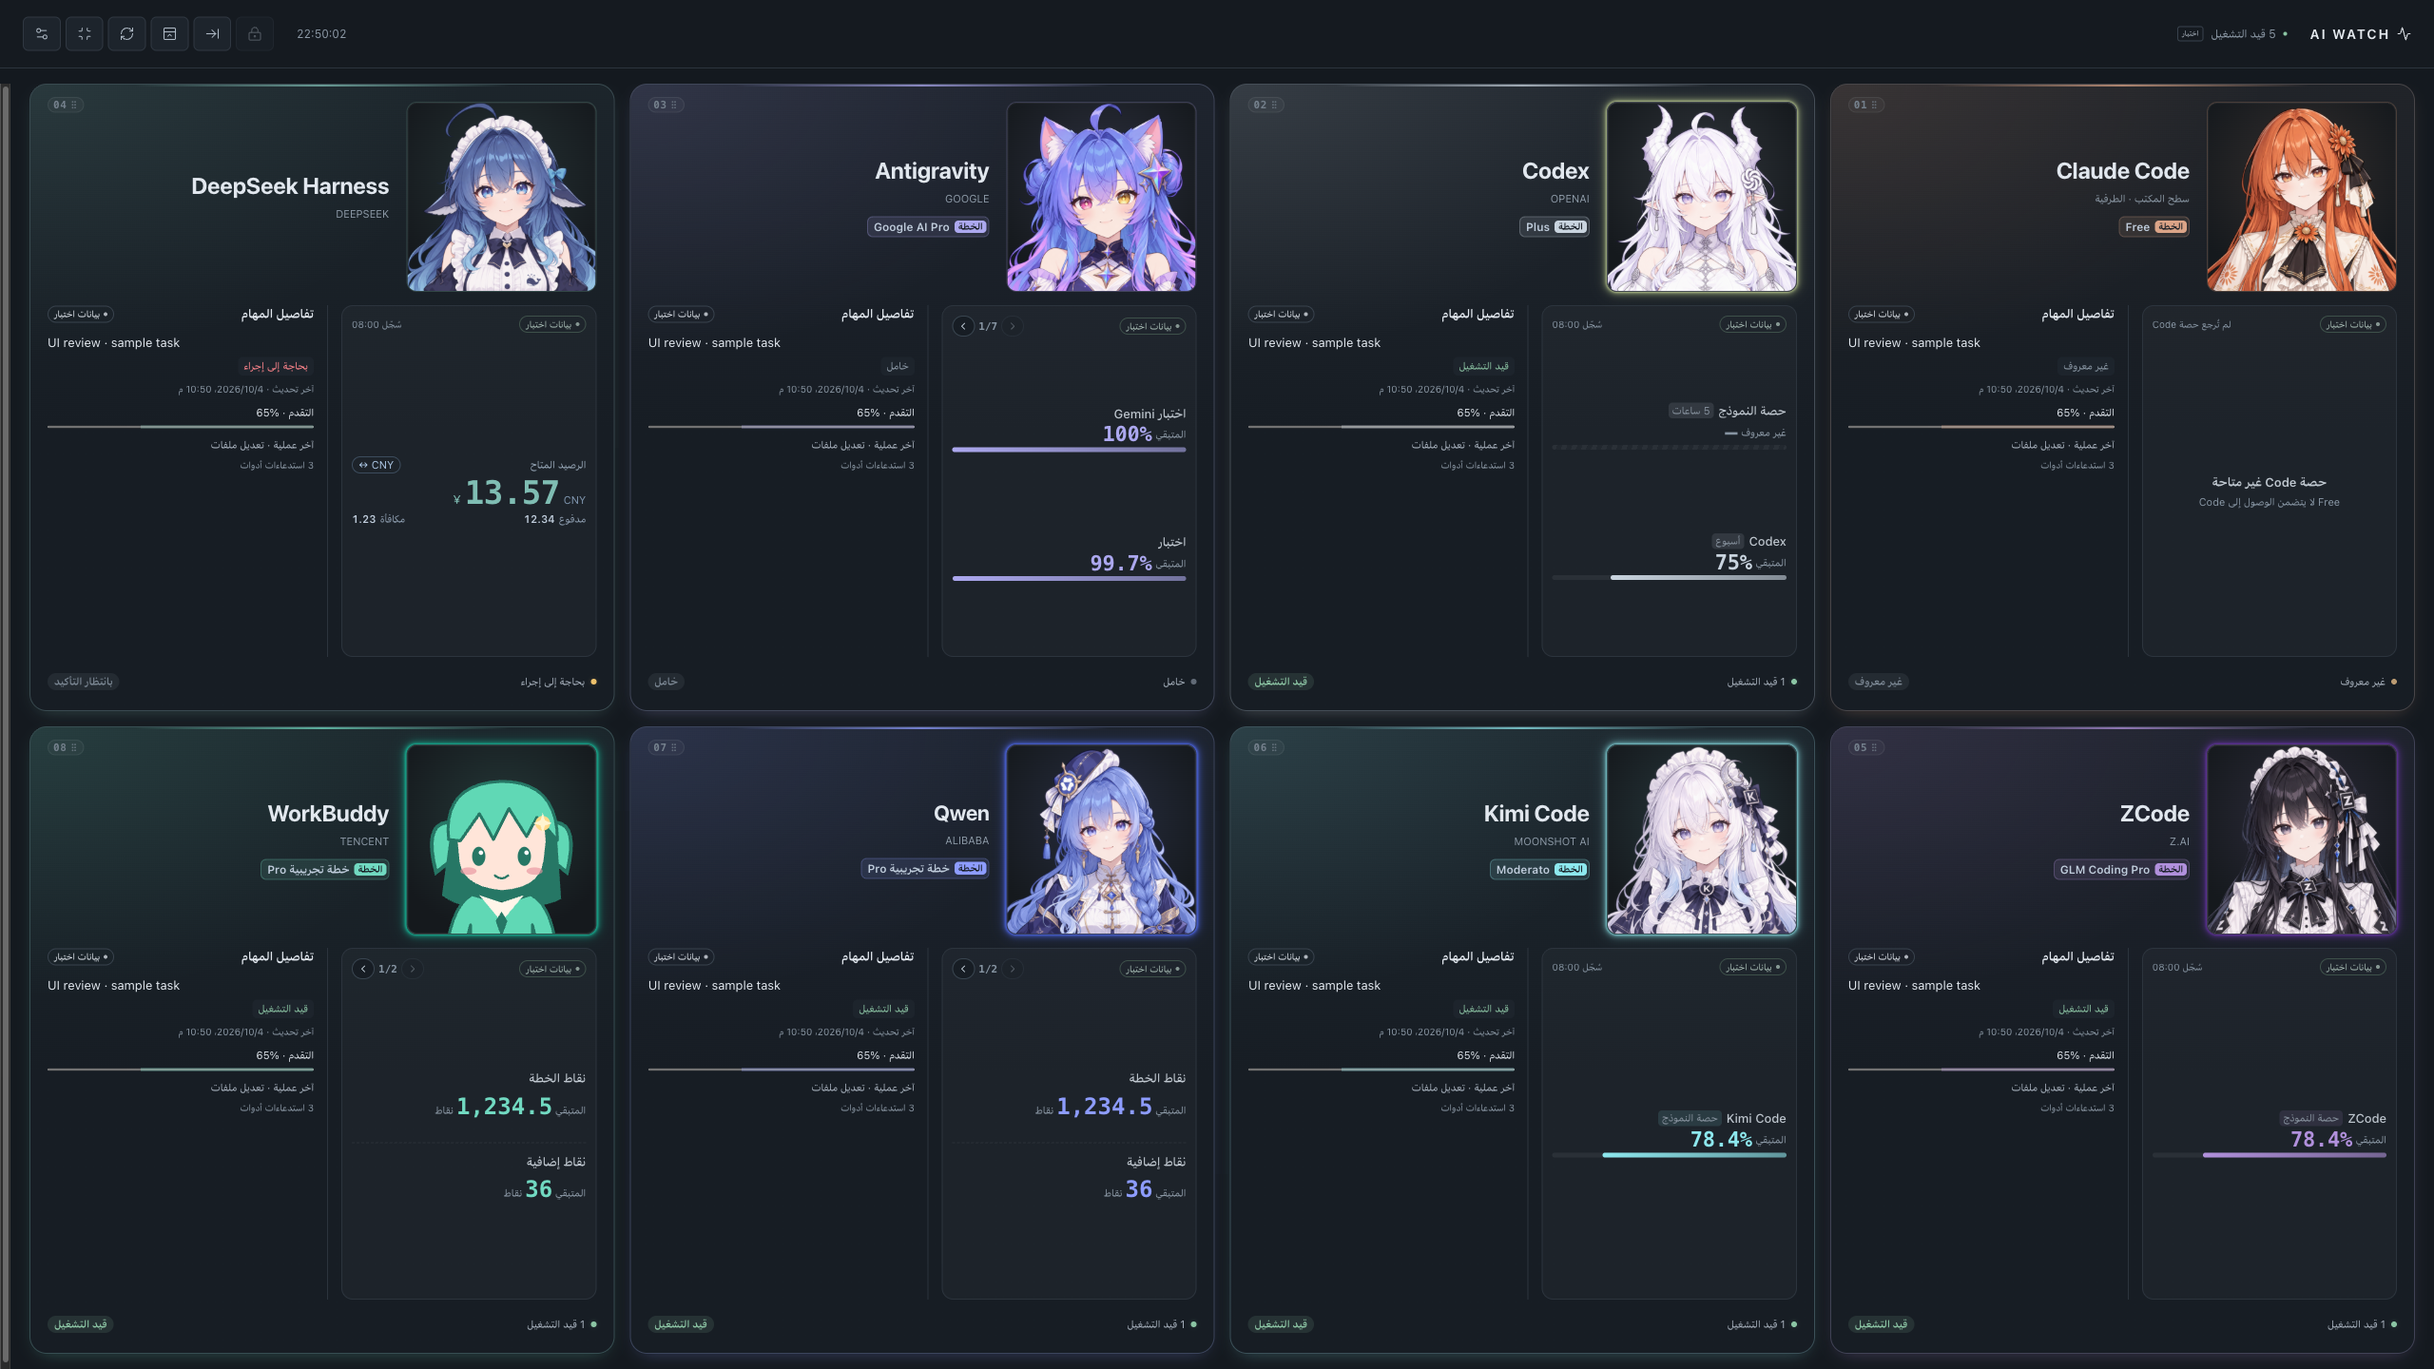
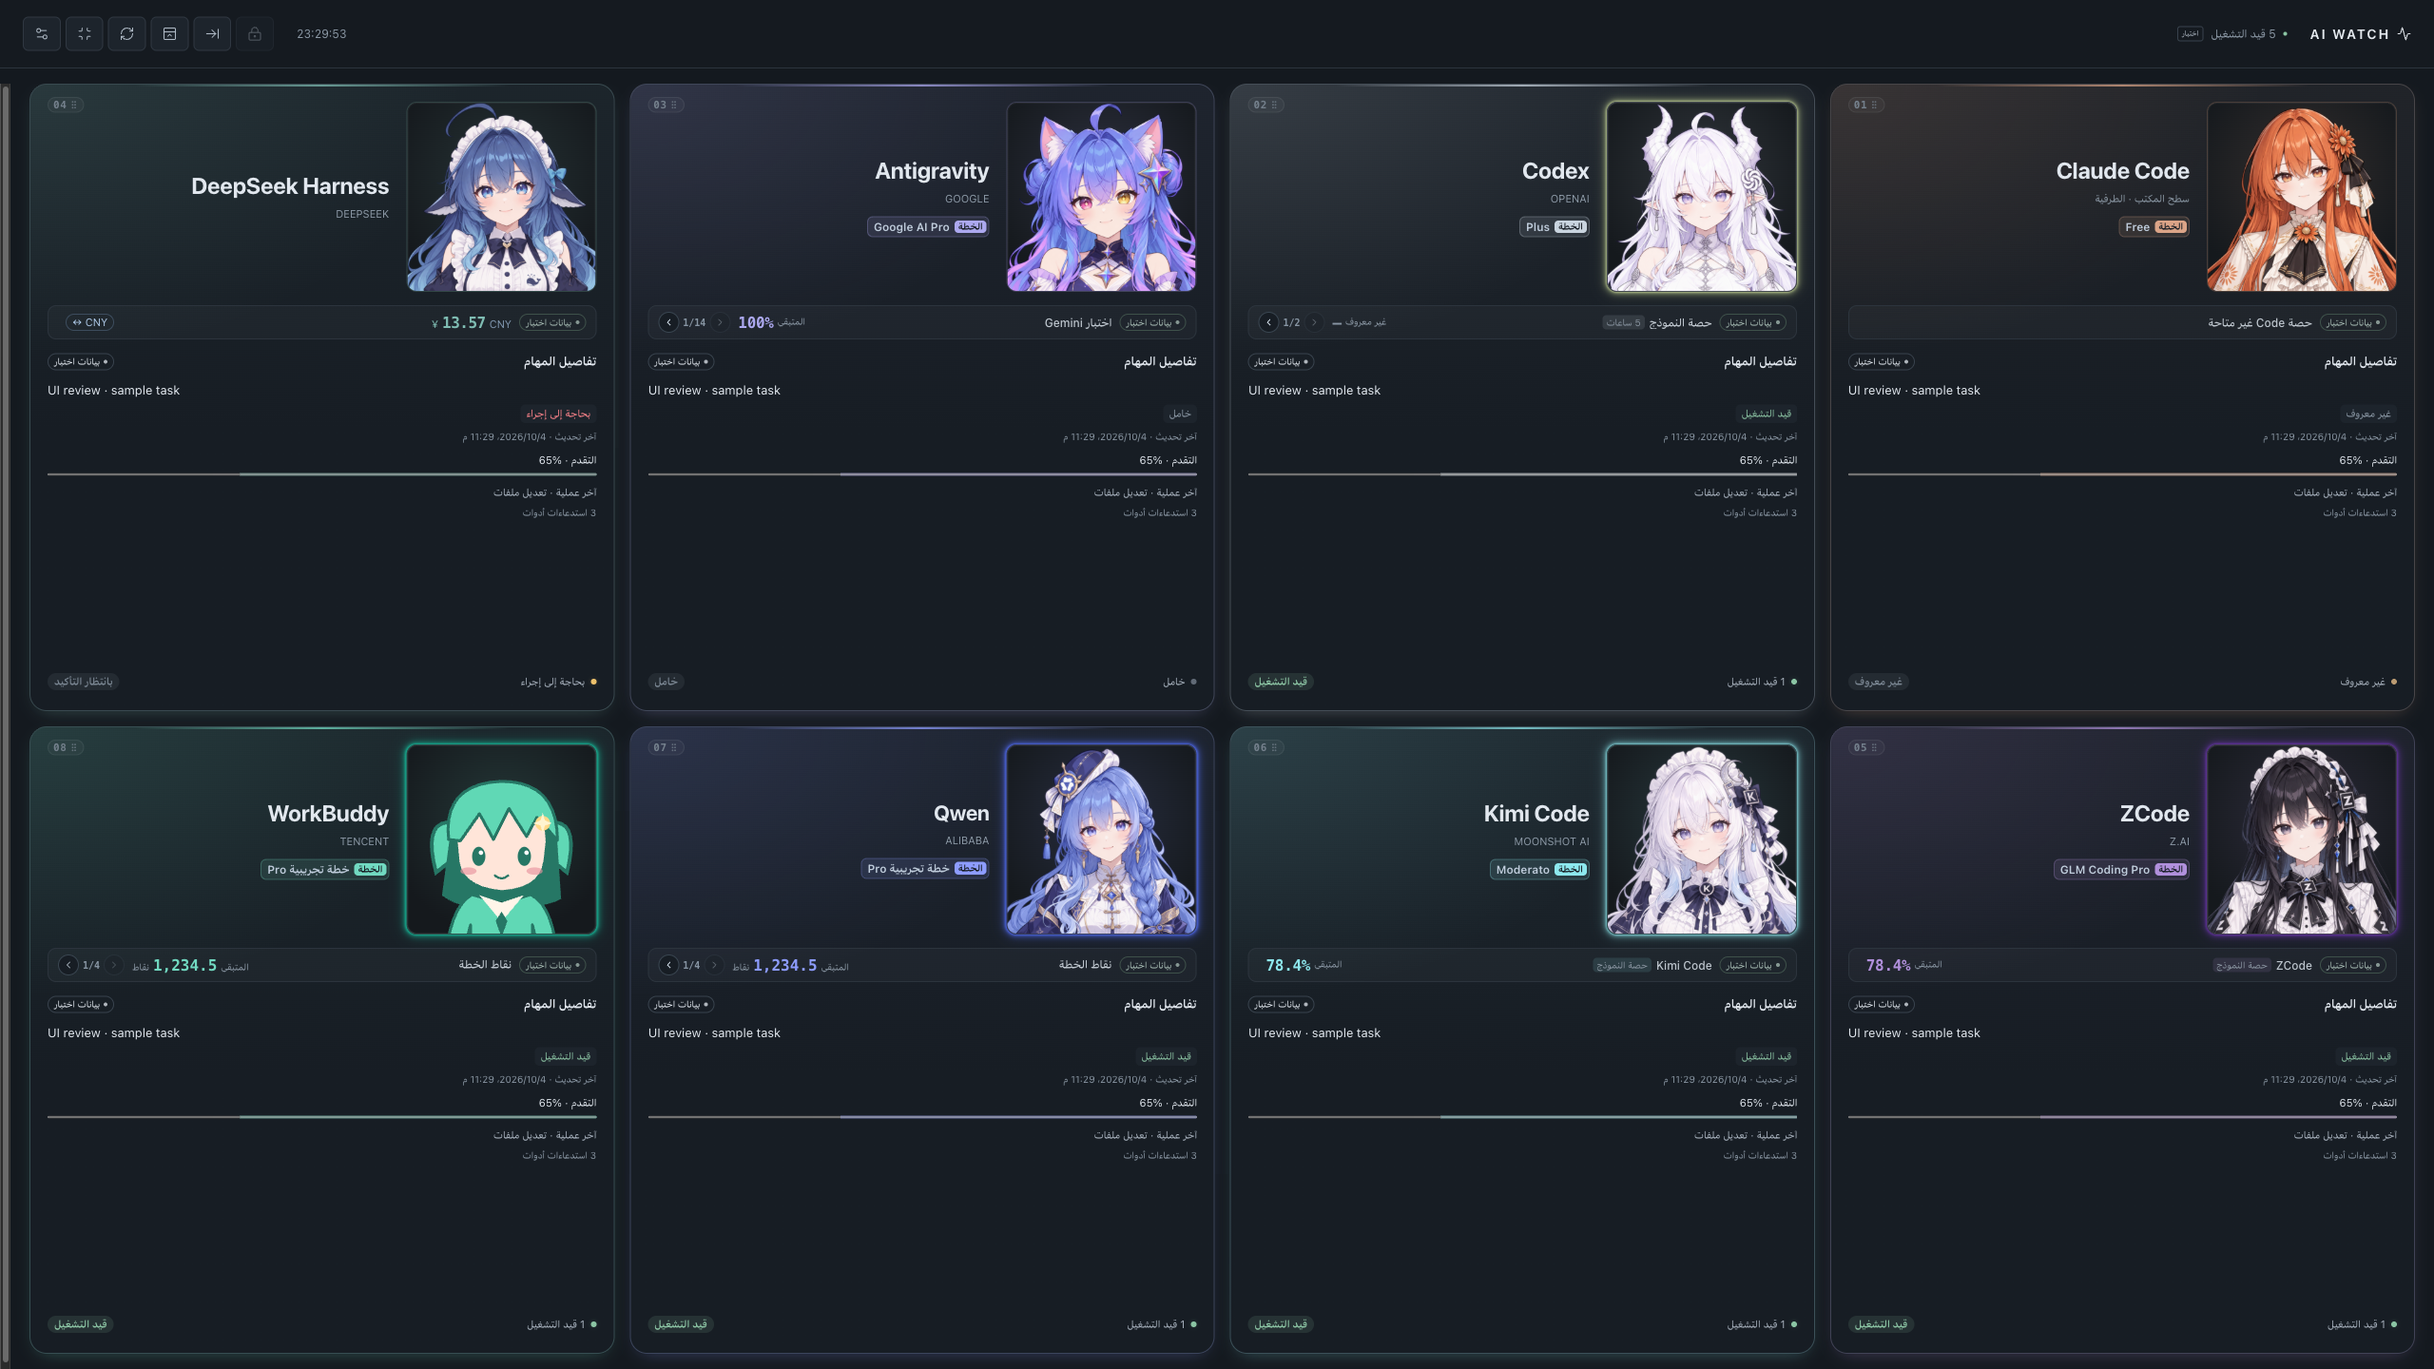
fix: compact fullscreen quotas into a single row

diff --git a/src/App.tsx b/src/App.tsx
@@ -119,14 +119,14 @@ function PlanBadge({ provider, compact = false }: { provider: Provider; compact?
     <span className="plan-kind">{t("套餐")}</span><bdi className="plan-name">{displayLabel}</bdi>{state && <span className="plan-status">{state}</span>}
   </div>;
 }
-function EntitlementCard({ provider, page }: { provider: Provider; page: number }) {
+function EntitlementCard({ provider, page, pageSize = 2 }: { provider: Provider; page: number; pageSize?: number }) {
   const { language, t, date, number, percent, label: translatedLabel } = useI18n();
   const local = provider.local;
   const credits = local?.credits;
   const items = local ? credits?.items || [] : [{ label: t("示例积分"), remaining: '1234.5', unit: t("积分"), total: '2000' }];
   return <div className="entitlement-content">
     <div className="credits-list" aria-label={t("{p0} 剩余积分", { p0: provider.name })}>
-      {items.length ? items.slice(page * 2, page * 2 + 2).map((item, index) => <div className={`credit-item ${credits?.stale ? 'is-stale' : ''}`} key={`${item.label}:${index}`}
+      {items.length ? items.slice(page * pageSize, page * pageSize + pageSize).map((item, index) => <div className={`credit-item ${credits?.stale ? 'is-stale' : ''}`} key={`${item.label}:${index}`}
         title={[item.label, item.remaining === null ? t("剩余未知") : t("剩余 {p0} {p1}", { p0: item.remaining, p1: item.unit }), item.total != null ? t("总量 {p0} {p1}", { p0: item.total, p1: item.unit }) : '', item.reset ? t("重置 / 到期时间 {p0}", { p0: date(item.reset) }) : '', credits?.stale ? t("历史快照，当前值待更新") : ''].filter(Boolean).join(' · ')}>
         <div className="credit-label">{item.label}</div>
         <div className="credit-amount"><span>{credits?.stale ? t("历史") : item.remaining === null ? t("未知") : t("剩余")}</span><strong className="credit-value"><bdi dir="ltr">{item.remaining === null ? '—' : number(creditNumber(item.remaining), { maximumFractionDigits: 2, useGrouping: language !== 'zh-CN' })}</bdi></strong><small>{item.unit}</small></div>
@@ -163,7 +163,7 @@ function ProviderCard({ provider, index, image, anime = false, onOpen, launchBus
   const local = provider.local;
   const isEntitlement = provider.id === 'qwen' || provider.id === 'workbuddy';
   const itemCount = isEntitlement ? local?.credits?.items.length || 0 : provider.quotas.length;
-  const pageSize = isEntitlement || anime ? 2 : 3;
+  const pageSize = fullscreen ? 1 : isEntitlement || anime ? 2 : 3;
   const pages = Math.max(1, Math.ceil(itemCount / pageSize));
   const currentPage = Math.min(page, pages - 1);
   useEffect(() => setPage((old) => Math.min(old, pages - 1)), [pages]);
@@ -196,7 +196,7 @@ function ProviderCard({ provider, index, image, anime = false, onOpen, launchBus
           <button aria-label={t("{p0} 下一页额度", { p0: provider.name })} disabled={currentPage === pages - 1} onClick={() => setPage(currentPage + 1)}><ChevronRight size={11} /></button>
         </div> : <span className="quota-time" title={local?.observedAt ? t("记录于 {p0}", { p0: date(local.observedAt) }) : ''}>{local ? local.id === 'claude' && !local.quotas.length ? t("未提供 Code 额度") : time ? t("记录 {p0}", { p0: time }) : isBalance ? t("自动识别登录态") : t("额度未知") : t("示例额度")}</span>}
       </div>
-      {isEntitlement ? <EntitlementCard provider={provider} page={currentPage} /> : isBalance ? <BalanceCard local={local} /> : local?.id === 'claude' && !local.quotas.length ? <div className="claude-empty"><strong>{t("Code 额度暂不可用")}</strong><p>{local.plan?.name === 'Free' ? t("Free 账号不包含 Code 权限") : t("当前本地记录未提供额度窗口")}</p><small>{local.surfaces?.desktop}<br />{local.surfaces?.terminal}</small></div> : <div className="quota-list" aria-label={t("{p0}剩余额度", { p0: testing ? '测试' : local ? '本地' : '演示' })}>
+      {isEntitlement ? <EntitlementCard provider={provider} page={currentPage} pageSize={pageSize} /> : isBalance ? <BalanceCard local={local} /> : local?.id === 'claude' && !local.quotas.length ? <div className="claude-empty"><strong>{t("Code 额度暂不可用")}</strong><p>{local.plan?.name === 'Free' ? t("Free 账号不包含 Code 权限") : t("当前本地记录未提供额度窗口")}</p><small>{local.surfaces?.desktop}<br />{local.surfaces?.terminal}</small></div> : <div className="quota-list" aria-label={t("{p0}剩余额度", { p0: testing ? '测试' : local ? '本地' : '演示' })}>
         {quotas.map((quota, row) => {
           const known = quota.remaining !== null && !quota.stale;
           const historical = provider.id === 'codex' && quota.stale && quota.remaining !== null;
@@ -613,7 +613,7 @@ export default function App() {
         <div className="settings-section"><h3>{t("启动应用")}</h3><p>{t("点击卡片或收起栏图标打开应用；未找到时可手动选择安装位置。")}</p>{providers.map(provider => <div className="app-option" key={provider.id}>
           <span>{provider.name}</span><button disabled={choosingApp} onClick={() => void chooseProviderApp(provider)} aria-label={t("选择 {p0} 启动应用", { p0: provider.name })}>{t("选择应用")}</button>
         </div>)}</div>
-        <div className="settings-note"><span className="note-title">{`${t("本地")} · v0.17.0`}</span><p>{t("Codex 使用已有登录每分钟查询官方额度，失败时保留历史值或读取本地记录；Antigravity 同一模型的思考等级合并显示，每 5 秒检查任务，每 30 秒读取额度。刷新按钮会重新读取，联网请求最短间隔 15 秒，失败时自动退避。运行时 LOGO 显示对应颜色的光晕，Codex 待回答或待授权时优先显示红色。")}</p><p>{t("DeepSeek 使用本设备 Harness 已有登录态查询余额，每分钟更新。换设备后先在 Harness 登录，面板自动识别，无需复制 Key。账号切换或退出后会清除旧余额。")}</p><p>{t("Claude 自动发现桌面与终端会话，读取桌面用量历史；Free 账号不包含 Code 权限，缺少额度时明确显示不可用。DeepSeek 结合会话记录与进程识别任务活动，黄色表示等待确认。浏览器预览全部使用示例。")}</p>
+        <div className="settings-note"><span className="note-title">{`${t("本地")} · v0.17.1`}</span><p>{t("Codex 使用已有登录每分钟查询官方额度，失败时保留历史值或读取本地记录；Antigravity 同一模型的思考等级合并显示，每 5 秒检查任务，每 30 秒读取额度。刷新按钮会重新读取，联网请求最短间隔 15 秒，失败时自动退避。运行时 LOGO 显示对应颜色的光晕，Codex 待回答或待授权时优先显示红色。")}</p><p>{t("DeepSeek 使用本设备 Harness 已有登录态查询余额，每分钟更新。换设备后先在 Harness 登录，面板自动识别，无需复制 Key。账号切换或退出后会清除旧余额。")}</p><p>{t("Claude 自动发现桌面与终端会话，读取桌面用量历史；Free 账号不包含 Code 权限，缺少额度时明确显示不可用。DeepSeek 结合会话记录与进程识别任务活动，黄色表示等待确认。浏览器预览全部使用示例。")}</p>
           {displayStatus && <>{providerIds.map((id) => <p key={id}><b>{providers.find(provider => provider.id === id)!.name}</b><br />{settingsStatus?.[id]?.detail}<br />{settingsStatus?.[id]?.activityDetail && <>{settingsStatus?.[id]?.activityDetail}<br /></>}{settingsStatus?.[id]?.observedAt ? t("记录时间：{p0}", { p0: date(settingsStatus?.[id]?.observedAt!) }) : t("尚无可用记录")}</p>)}</>}
           <p>{state.desktop ? t("桌面版 · 显示缩放 {p0}×", { p0: state.scaleFactor }) : t("浏览器预览 · 窗口操作请使用桌面版")}</p></div>
       </div>

diff --git a/src/layouts.css b/src/layouts.css
@@ -26,9 +26,9 @@
 .layout-fullscreen .provider-card, .layout-fullscreen.anime-mode .provider-card {
   --a-title: 24px; --a-body: 13px; --a-caption: 11px; --a-number: 22px; --hero-size: clamp(124px, 16vh, 200px);
   padding: 18px; gap: 14px; border-radius: 18px;
-  display: grid; grid-template-columns: minmax(0, 1fr) minmax(0, 1.1fr);
-  grid-template-rows: var(--hero-size) minmax(0, 1fr) 24px;
-  grid-template-areas: "heading heading" "quota tasks" "footer footer";
+  display: grid; grid-template-columns: minmax(0, 1fr);
+  grid-template-rows: var(--hero-size) 36px minmax(0, 1fr) 24px;
+  grid-template-areas: "heading" "quota" "tasks" "footer";
 }
 .layout-fullscreen .card-heading { grid-area: heading; height: var(--hero-size); align-items: center; gap: 18px; }
 .layout-fullscreen .card-heading .avatar-launch { width: 92px; height: 92px; flex: none; }
@@ -39,24 +39,43 @@
 .layout-fullscreen .identity .eyebrow { order: 1; font-size: 11px; }
 .layout-fullscreen .plan-summary { order: 2; font-size: 11px; max-width: 100%; }
 .layout-fullscreen .card-index { top: -5px; inset-inline-end: 0; font-size: 11px; }
-.layout-fullscreen .quota-area { grid-area: quota; min-width: 0; padding: 10px; border: 1px solid var(--line); border-radius: 12px; background: color-mix(in srgb, var(--text) 3%, transparent); }
-.layout-fullscreen .quota-tools { flex-wrap: wrap; gap: 6px; }
-.layout-fullscreen .source-tag, .layout-fullscreen .quota-time { font-size: 10px; }
-.layout-fullscreen .quota-pagination { font-size: 11px; }
-.layout-fullscreen .quota-pagination button { width: 24px; height: 22px; }
-.layout-fullscreen .quota-list { gap: 18px; }
-.layout-fullscreen .quota-label { flex-wrap: wrap; row-gap: 3px; font-size: 13px; }
-.layout-fullscreen .quota-label > span { flex-basis: 100%; }
-.layout-fullscreen .quota-label strong { font-size: 22px; }
-.layout-fullscreen .quota-track { height: 5px; }
-.layout-fullscreen .credits-list { gap: 14px; }
-.layout-fullscreen .credit-item { display: flex; flex-direction: column; align-items: stretch; gap: 6px; padding-block: 10px; flex: none; min-height: 70px; max-height: none; }
-.layout-fullscreen .credit-label { flex: none; font-size: 13px; }
-.layout-fullscreen .credit-amount { max-width: 100%; justify-content: flex-start; }
-.layout-fullscreen .credit-value { font-size: 24px; }
+.layout-fullscreen .quota-area {
+  grid-area: quota; min-width: 0; display: grid; grid-template-columns: auto minmax(0, 1fr) auto;
+  align-items: center; gap: 8px; padding: 4px 10px; border: 1px solid var(--line); border-radius: 9px;
+  background: color-mix(in srgb, var(--text) 3%, transparent);
+}
+.layout-fullscreen .quota-tools { display: contents; }
+.layout-fullscreen .source-tag { font-size: 10px; }
+.layout-fullscreen .quota-tools > .source-tag { grid-column: 1; grid-row: 1; max-width: 88px; }
+.layout-fullscreen .quota-time { display: none; }
+.layout-fullscreen .quota-pagination { grid-column: 3; grid-row: 1; font-size: 10px; }
+.layout-fullscreen .quota-pagination button { width: 22px; height: 22px; }
+.layout-fullscreen .quota-list, .layout-fullscreen .entitlement-content, .layout-fullscreen .balance-content, .layout-fullscreen .claude-empty { grid-column: 2; grid-row: 1; min-width: 0; }
+.layout-fullscreen .quota-list { flex-direction: row; gap: 0; }
+.layout-fullscreen .quota { flex: 1; min-width: 0; }
+.layout-fullscreen .quota-label { align-items: center; margin: 0; flex-wrap: nowrap; gap: 8px; font-size: 12px; }
+.layout-fullscreen .quota-label > span { flex-basis: auto; }
+.layout-fullscreen .quota-label small, .layout-fullscreen .remaining-label { font-size: 10px; }
+.layout-fullscreen .quota-label strong { font-size: 16px; }
+.layout-fullscreen .quota-track { display: none; }
+.layout-fullscreen .credits-list { gap: 0; }
+.layout-fullscreen .credit-item { flex: none; padding: 0; gap: 8px; max-height: none; }
+.layout-fullscreen .credit-label { flex: 1; min-width: 0; overflow: hidden; text-overflow: ellipsis; white-space: nowrap; font-size: 12px; }
+.layout-fullscreen .credit-amount { flex: none; max-width: 100%; gap: 4px; }
+.layout-fullscreen .credit-amount > span, .layout-fullscreen .credit-amount small { font-size: 10px; }
+.layout-fullscreen .credit-value { font-size: 16px; }
+.layout-fullscreen .balance-content { flex-direction: row; align-items: center; gap: 8px; }
+.layout-fullscreen .balance-caption { display: contents; }
+.layout-fullscreen .balance-caption > span, .layout-fullscreen .balance-parts { display: none; }
+.layout-fullscreen .balance-total { flex: 1; order: -1; }
+.layout-fullscreen .balance-total strong { font-size: 16px; }
+.layout-fullscreen .balance-total small, .layout-fullscreen .balance-total > span { font-size: 11px; }
+.layout-fullscreen .balance-empty, .layout-fullscreen .claude-empty, .layout-fullscreen .credits-empty { display: flex; flex-direction: row; align-items: center; justify-content: flex-start; gap: 6px; min-width: 0; padding: 0; text-align: start; }
+.layout-fullscreen .balance-empty strong, .layout-fullscreen .claude-empty strong, .layout-fullscreen .credits-empty strong { font-size: 12px; font-weight: 500; overflow: hidden; text-overflow: ellipsis; white-space: nowrap; }
+.layout-fullscreen .balance-empty p, .layout-fullscreen .claude-empty p, .layout-fullscreen .claude-empty small, .layout-fullscreen .credits-empty p, .layout-fullscreen .credits-empty > span { display: none; }
 .layout-fullscreen .task-line { grid-area: footer; font-size: 11px; padding: 0; border: 0; }
 .layout-fullscreen .task-line > span:nth-child(2) { white-space: nowrap; overflow: hidden; text-overflow: ellipsis; }
-.task-details { grid-area: tasks; min-width: 0; min-height: 0; display: flex; flex-direction: column; border-inline-start: 1px solid var(--line); padding-inline-start: 14px; cursor: auto; user-select: text; touch-action: pan-y; }
+.task-details { grid-area: tasks; min-width: 0; min-height: 0; display: flex; flex-direction: column; cursor: auto; user-select: text; touch-action: pan-y; }
 .task-details-heading { display: flex; justify-content: space-between; align-items: center; gap: 6px; padding-bottom: 10px; }
 .task-details h3 { margin: 0; font-size: 13px; font-weight: 600; }
 .task-details-list { overflow-y: auto; min-height: 0; scrollbar-width: thin; overscroll-behavior: contain; }
